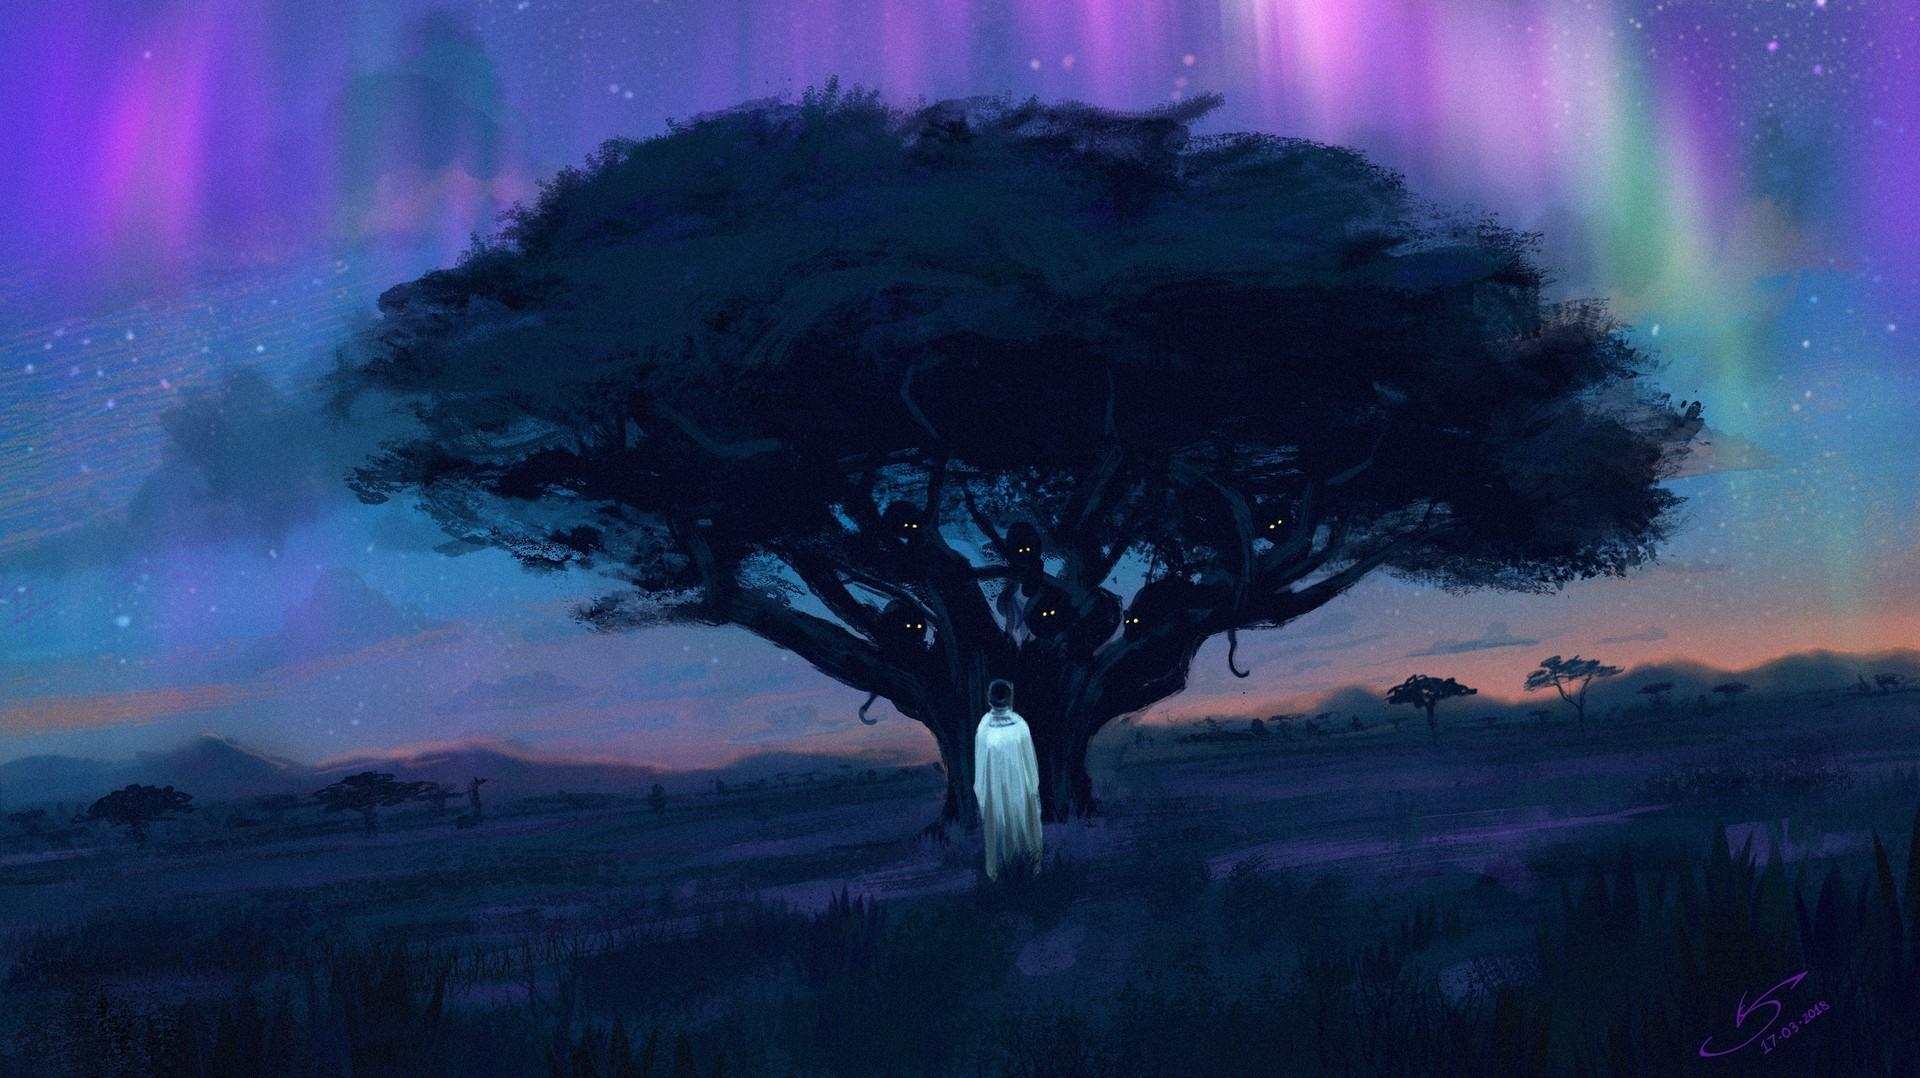
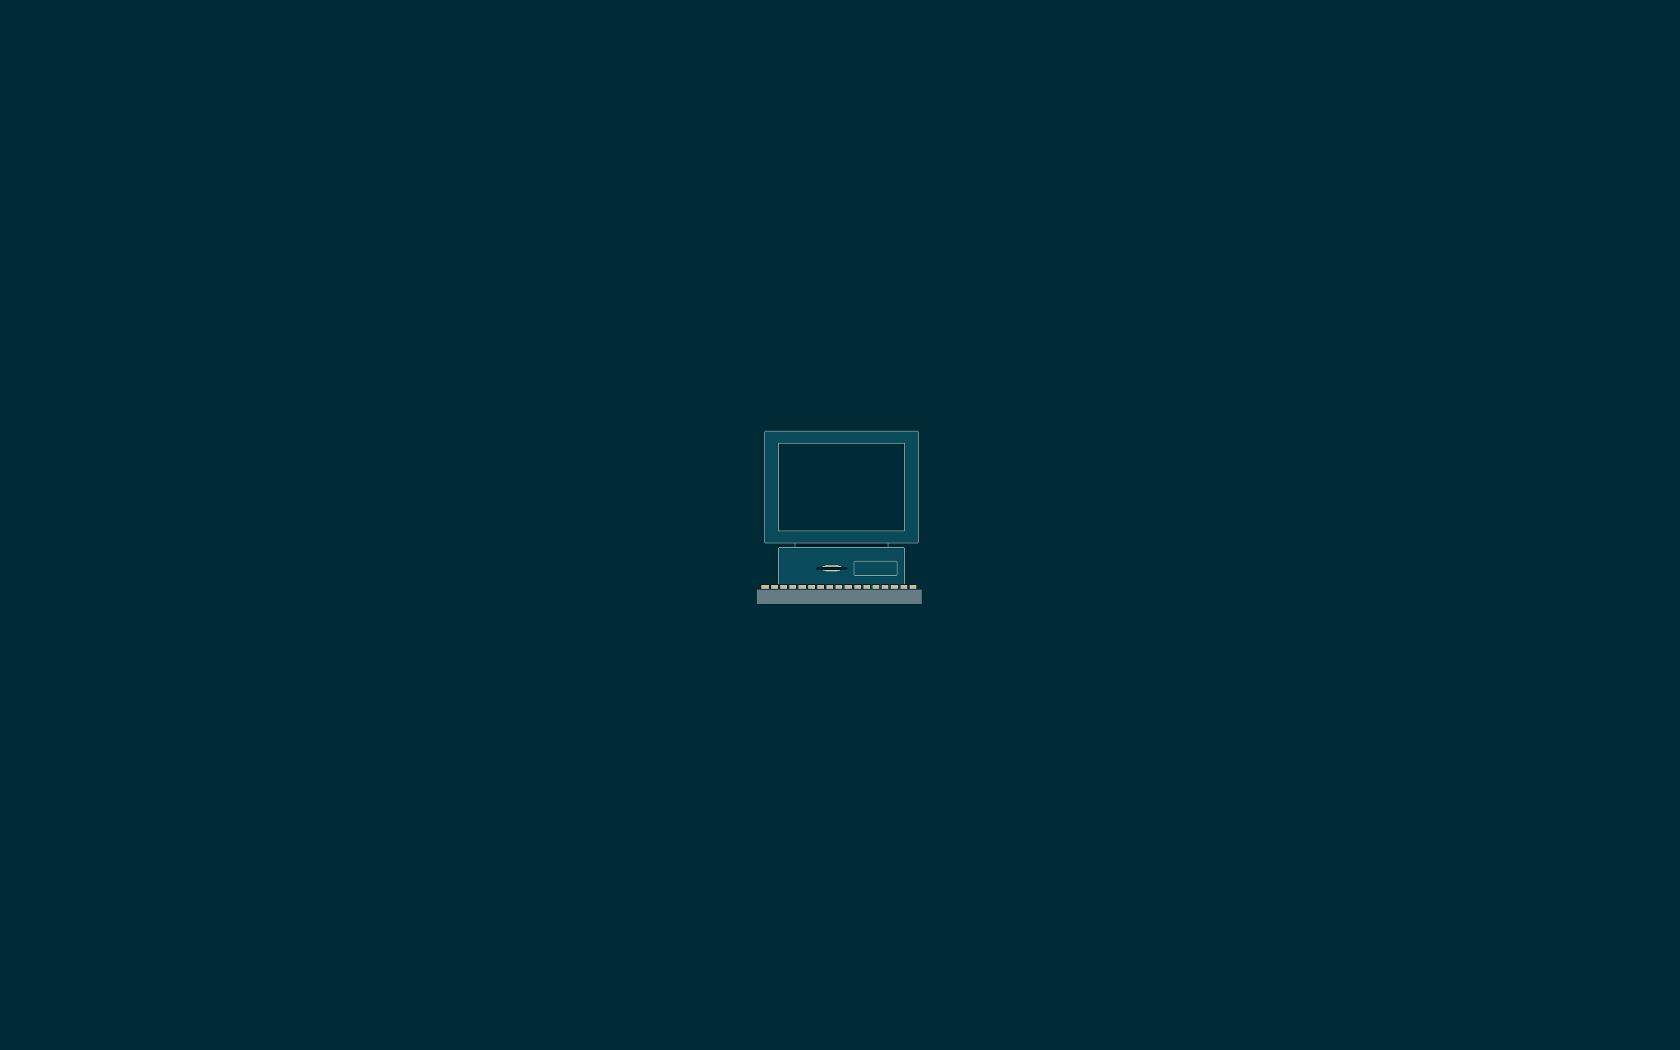
Tweaks

diff --git a/wallpaper/index.html b/wallpaper/index.html
@@ -1,0 +1,44 @@
+<!DOCTYPE HTML>
+<html lang="en">
+<head>
+<meta charset="utf-8">
+<title>Directory listing for /.config/wallpaper/</title>
+</head>
+<body>
+<h1>Directory listing for /.config/wallpaper/</h1>
+<hr>
+<ul>
+<li><a href="1.jpg">1.jpg</a></li>
+<li><a href="1.png">1.png</a></li>
+<li><a href="10.jpg">10.jpg</a></li>
+<li><a href="2.jpg">2.jpg</a></li>
+<li><a href="2.png">2.png</a></li>
+<li><a href="3.jpg">3.jpg</a></li>
+<li><a href="3.png">3.png</a></li>
+<li><a href="4.jpg">4.jpg</a></li>
+<li><a href="4.png">4.png</a></li>
+<li><a href="5.jpg">5.jpg</a></li>
+<li><a href="5.png">5.png</a></li>
+<li><a href="6.jpg">6.jpg</a></li>
+<li><a href="6.png">6.png</a></li>
+<li><a href="7.jpg">7.jpg</a></li>
+<li><a href="8.jpg">8.jpg</a></li>
+<li><a href="8.png">8.png</a></li>
+<li><a href="9.jpg">9.jpg</a></li>
+<li><a href="black.jpg">black.jpg</a></li>
+<li><a href="black.png">black.png</a></li>
+<li><a href="wallhaven-1p398w.jpg">wallhaven-1p398w.jpg</a></li>
+<li><a href="wallhaven-5ggzd8.png">wallhaven-5ggzd8.png</a></li>
+<li><a href="wallhaven-7p2eqe.png">wallhaven-7p2eqe.png</a></li>
+<li><a href="wallhaven-9ddm38.jpg">wallhaven-9ddm38.jpg</a></li>
+<li><a href="wallhaven-gpp5rl.jpg">wallhaven-gpp5rl.jpg</a></li>
+<li><a href="wallhaven-l83k62.jpg">wallhaven-l83k62.jpg</a></li>
+<li><a href="wallhaven-l83o92.jpg">wallhaven-l83o92.jpg</a></li>
+<li><a href="wallhaven-p9kwgj.png">wallhaven-p9kwgj.png</a></li>
+<li><a href="wallhaven-wee167.jpg">wallhaven-wee167.jpg</a></li>
+<li><a href="wallhaven-weqjeq.png">wallhaven-weqjeq.png</a></li>
+<li><a href="wallhaven-zygeko.jpg">wallhaven-zygeko.jpg</a></li>
+</ul>
+<hr>
+</body>
+</html>
